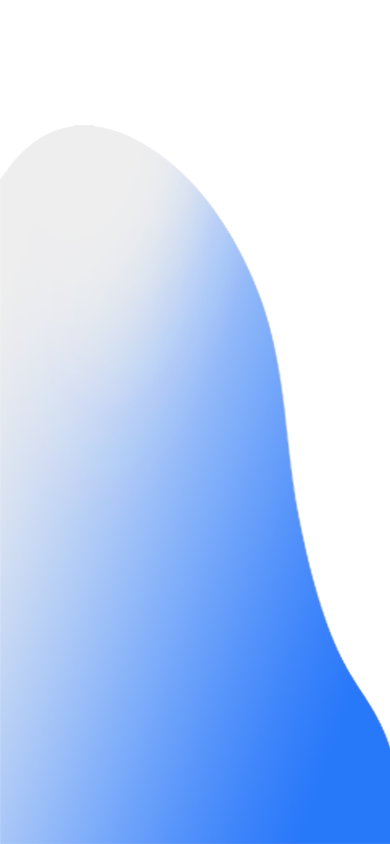
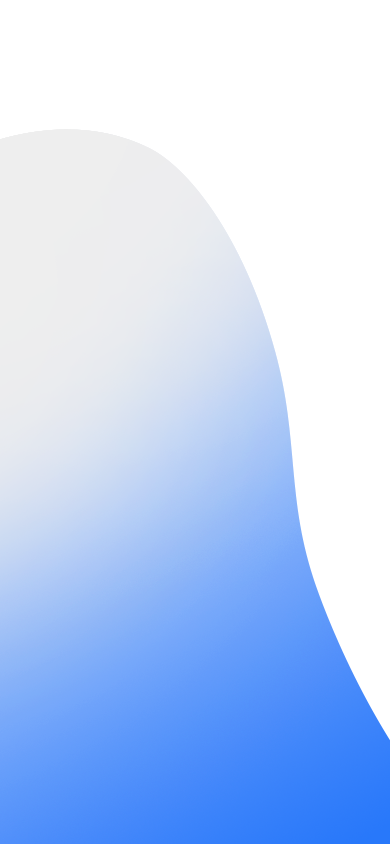
edit mobile query

Changed region(s): [[0.2462, 0.2156, 0.9846, 0.8626], [0.0, 0.6777, 0.4923, 1.0], [0.9846, 0.8626, 1.0, 0.8934]]

diff --git a/assets/css/main.css b/assets/css/main.css
@@ -418,7 +418,6 @@ html {
 /* Home Info Section */
 .homeContent .homeInfo {
     width: 50%;
-    height: 75%;
     right: 0;
     flex-direction: column;
     margin-bottom: 10%;
@@ -445,7 +444,6 @@ html {
     display: flex;
 }
 .homeInfo .homeLogoImg {
-    height: 20%;
     display: flex;
     align-items: flex-end;
     user-select: none;
@@ -508,12 +506,11 @@ html {
 
 /* Action Call Btns */
 .homeInfo .homeBtns {
-    height: 20%;
 }
 .homeBtns div {
     position: relative;
     width: 30%;
-    height: 35%;
+    height: 30px;
     margin: 1%;
     font-family: var(--mainArFont);
     font-size: 1.25em;
@@ -543,7 +540,6 @@ html {
 /* Home Contact Section */
 .homeContact {
     width: 25%;
-    height: 25%;
     bottom: 0;
     right: 0;
     flex-direction: column;

diff --git a/assets/css/mobiles.css b/assets/css/mobiles.css
@@ -313,11 +313,10 @@
     /* Home Background Section  */
     .homeContent .homeBackDesign {
         width: 85%;
-        height: 85%;
     }
     .homeBackDesign .svgContainer {
         width: 80%;
-        height: 45%;
+        height: 65%;
     }
     .svgContainer img {
     }
